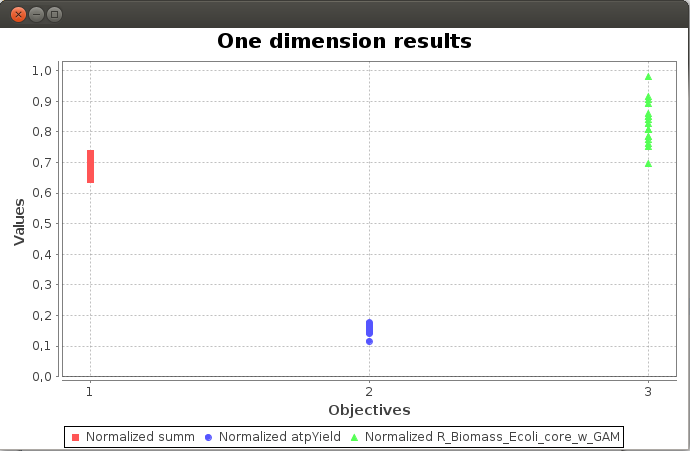
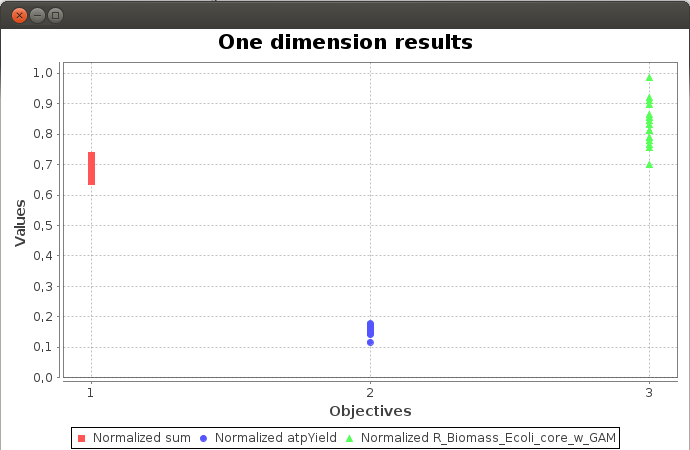
maj

diff --git a/documentation.html b/documentation.html
@@ -1113,8 +1113,9 @@ Flux	Objective
 						<li>The SBML file <a href="results/coli_core.xml">coli_core.xml</a></li>
 						<li>The condition file <a href="results/conditionsFBA.txt">conditionsFBA.txt</a></li>
 						<li>The command line : FlexfluxTwoReacs -s coli_core.xml
-							-cond conditionsFBA.txt -out Two_Reacs_result.txt -r R_EX_glc_e -init
-							-20 -end 0 -f 0.5 -r2 R_EX_o2_e -init2 -20 -end2 0 -f2 0.05 -plot</li>
+							-cond conditionsFBA.txt -out Two_Reacs_result.txt -r R_EX_glc_e
+							-init -20 -end 0 -f 0.5 -r2 R_EX_o2_e -init2 -20 -end2 0 -f2 0.05
+							-plot</li>
 					</ul>
 
 
@@ -1144,8 +1145,8 @@ Flux1	Flux2	Objective
 					<img src="img/TwoReacs.png"></img>
 
 					<p style="text-align: center">We can see the evolution of the
-						maximum biomass production for different values of oxygen and glucose uptake.
-						We observe four distinctive phenotypic phases.</p>
+						maximum biomass production for different values of oxygen and
+						glucose uptake. We observe four distinctive phenotypic phases.</p>
 
 					<h3 id="pareto">Pareto analysis</h3>
 
@@ -1157,9 +1158,12 @@ Flux1	Flux2	Objective
 						two and three dimensions) what objective optimization is closest
 						to the experimental values.</p>
 
+					<p>The objectives that are optimized are those for witch the
+						experimental values are the closest to the pareto surface.</p>
+
 
 					<p>In this analysis, the objective function of the condition
-						file is ignored.</p>
+						file is optional and ignored if present.</p>
 
 					<h4>Objective function and experimental values file</h4>
 
@@ -1172,7 +1176,7 @@ Flux1	Flux2	Objective
 
 					<p>Example :</p>
 
-					<pre class="prettyprint linenums">MIN(summ) MAX(atpYield) MAX(R_Biomass_Ecoli_core_w_GAM)
+					<pre class="prettyprint linenums">MIN(sum) MAX(atpYield) MAX(R_Biomass_Ecoli_core_w_GAM)
 
 1667.4 213.0 6.4
 1635.9 191.0 7.9
@@ -1213,10 +1217,21 @@ Flux1	Flux2	Objective
 					<h4>Results</h4>
 
 
-					<p>Example of graphical results :</p>
+					For this example, we used :
+					<ul>
+						<li>The SBML file <a href="results/coli_core.xml">coli_core.xml</a></li>
+						<li>The condition file <a href="results/conditionsPareto.txt">conditionsPareto.txt</a></li>
+						<li>The objective/experimental file <a
+							href="results/expFile.txt">expFile.txt</a></li>
+						<li>The command line : FlexfluxPareto -s coli_core.xml -cond
+							conditionsPareto.txt -exp expFile.txt -plot</li>
+					</ul>
 
+					<p>The graphical results :</p>
 
-
+					<p>Axes values are normalized such that the coordinates of the
+						points on the Pareto surface range from 0 to 1, where 1 represents
+						the theoretical minimum or maximum of an objective.</p>
 
 					<ul class="nav nav-tabs" id="myTab">
 						<li><a href="#1d">One dimension</a></li>
@@ -1234,7 +1249,6 @@ Flux1	Flux2	Objective
 						</div>
 						<div class="tab-pane active" id="3d">
 							<img src="img/Pareto3D.png"></img>
-
 						</div>
 					</div>
 				</section>
